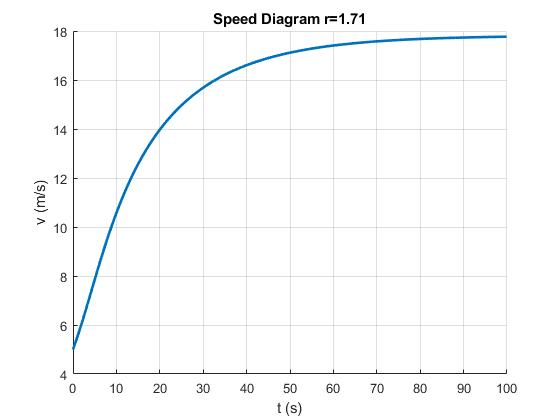
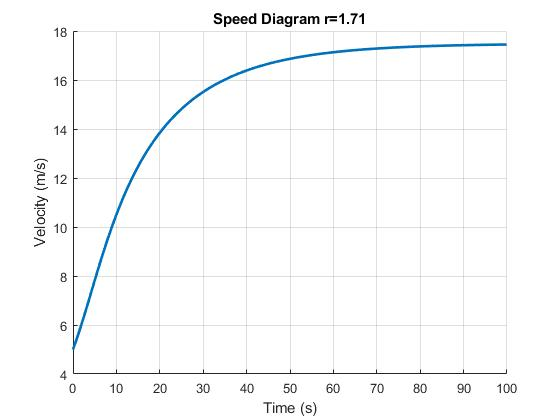
Readded Bearing Friction Correctly

diff --git a/Simulate.m b/Simulate.m
@@ -1,29 +1,30 @@
 function v = Simulate(vehicle, Tf)
 	[Vmin, Vmax] = vehicle.SpeedBoundary();
 	[t, v] = RungeKuttaMethod(@(~, V) vehicle.Acceleration(V), 1e3, Tf, Vmin);
-	[A, Vt, T, Q, F] = vehicle.Acceleration(v);
+	[A, Vt, T, Q, B, F] = vehicle.Acceleration(v);
 	figure();
 	hold('on');
 	grid('on');
-	plot(t, v, '-', 'LineWidth', 2);
-	xlabel('t (s)');
-	ylabel('v (m/s)');
+	plot(t, v, 'LineWidth', 2);
+	xlabel('Time (s)');
+	ylabel('Velocity (m/s)');
 	title(sprintf('Speed Diagram r=%.2f', vehicle.r));
 	figure();
 	hold('on');
 	grid('on');
-	plot(t, A, '-', 'LineWidth', 2);
-	xlabel('t (s)');
-	ylabel('a (m/s^2)');
+	plot(t, A, 'LineWidth', 2);
+	xlabel('Time (s)');
+	ylabel('Acceleration (m/s^2)');
 	title(sprintf('Acceleration Diagram r=%.2f', vehicle.r));
 	figure();
 	hold('on');
 	grid('on');
-	plot(t, T, '-', 'Color', '#32a865', 'LineWidth', 2);
-	plot(t, (-vehicle.s).*Q, '-', 'Color', '#a83232', 'LineWidth', 2);
-	plot(t, F, '-', 'Color', '#323ca8', 'LineWidth', 2);
-	xlabel('t (s)');
-	ylabel('F (N)');
+	plot(t, T, 'LineWidth', 2);
+	plot(t, Q, 'LineWidth', 2);
+	plot(t, B, 'LineWidth', 2);
+	plot(t, F, 'LineWidth', 2);
+	xlabel('Time (s)');
+	ylabel('Force (N)');
 	title(sprintf('Force Diagram r=%.2f', vehicle.r));
-	legend('Thrust Force', 'Torque Force', 'Net Force', 'Location', 'Best');
+	legend('Thrust', 'Torque', 'Bearing Friction', 'Net', 'Location', 'Best');
 end

diff --git a/Vehicle.m b/Vehicle.m
@@ -7,6 +7,7 @@ classdef Vehicle
 		Mw
 		Iw
 		m
+		b
 		r
 		i
 		s
@@ -24,6 +25,12 @@ classdef Vehicle
 			self.Iw = self.Mw*self.Dw^2/8;
 			self.m = m + fan.m + self.Mw;
 			self.L = L;
+			shaftRadius = 6.35e-3/2;
+			bearingClearence = 1e-3;
+			bearingLength = 10e-3;
+			bearingLoad = m + fan.m;
+			oilViscosity = 0.35;
+			self.b = 4*pi*oilViscosity*shaftRadius^3*bearingLength/bearingClearence/self.Dw;
 			self.r = r;
 			self = self.Findi();
 			self = self.Finds();
@@ -39,11 +46,13 @@ classdef Vehicle
 			self = self.Findi();
 			self = self.Finds();
 		end
-		function [a, Vt, T, Q, F] = Acceleration(self, V)
+		function [a, Vt, T, Q, B, F] = Acceleration(self, V)
 			Vt = self.air.TrueSpeed(V);
-			w = self.s.*V;
+			w = self.s*V;
 			[T, Q] = self.fan.Find(Vt, w);
-			F = T-self.s.*Q;
+			Q = -self.s*Q;
+			B = -self.b*w;
+			F = T+Q+B;
 			a = F/self.i;
 		end
 		function [Vmin, Vmax] = SpeedBoundary(self)
